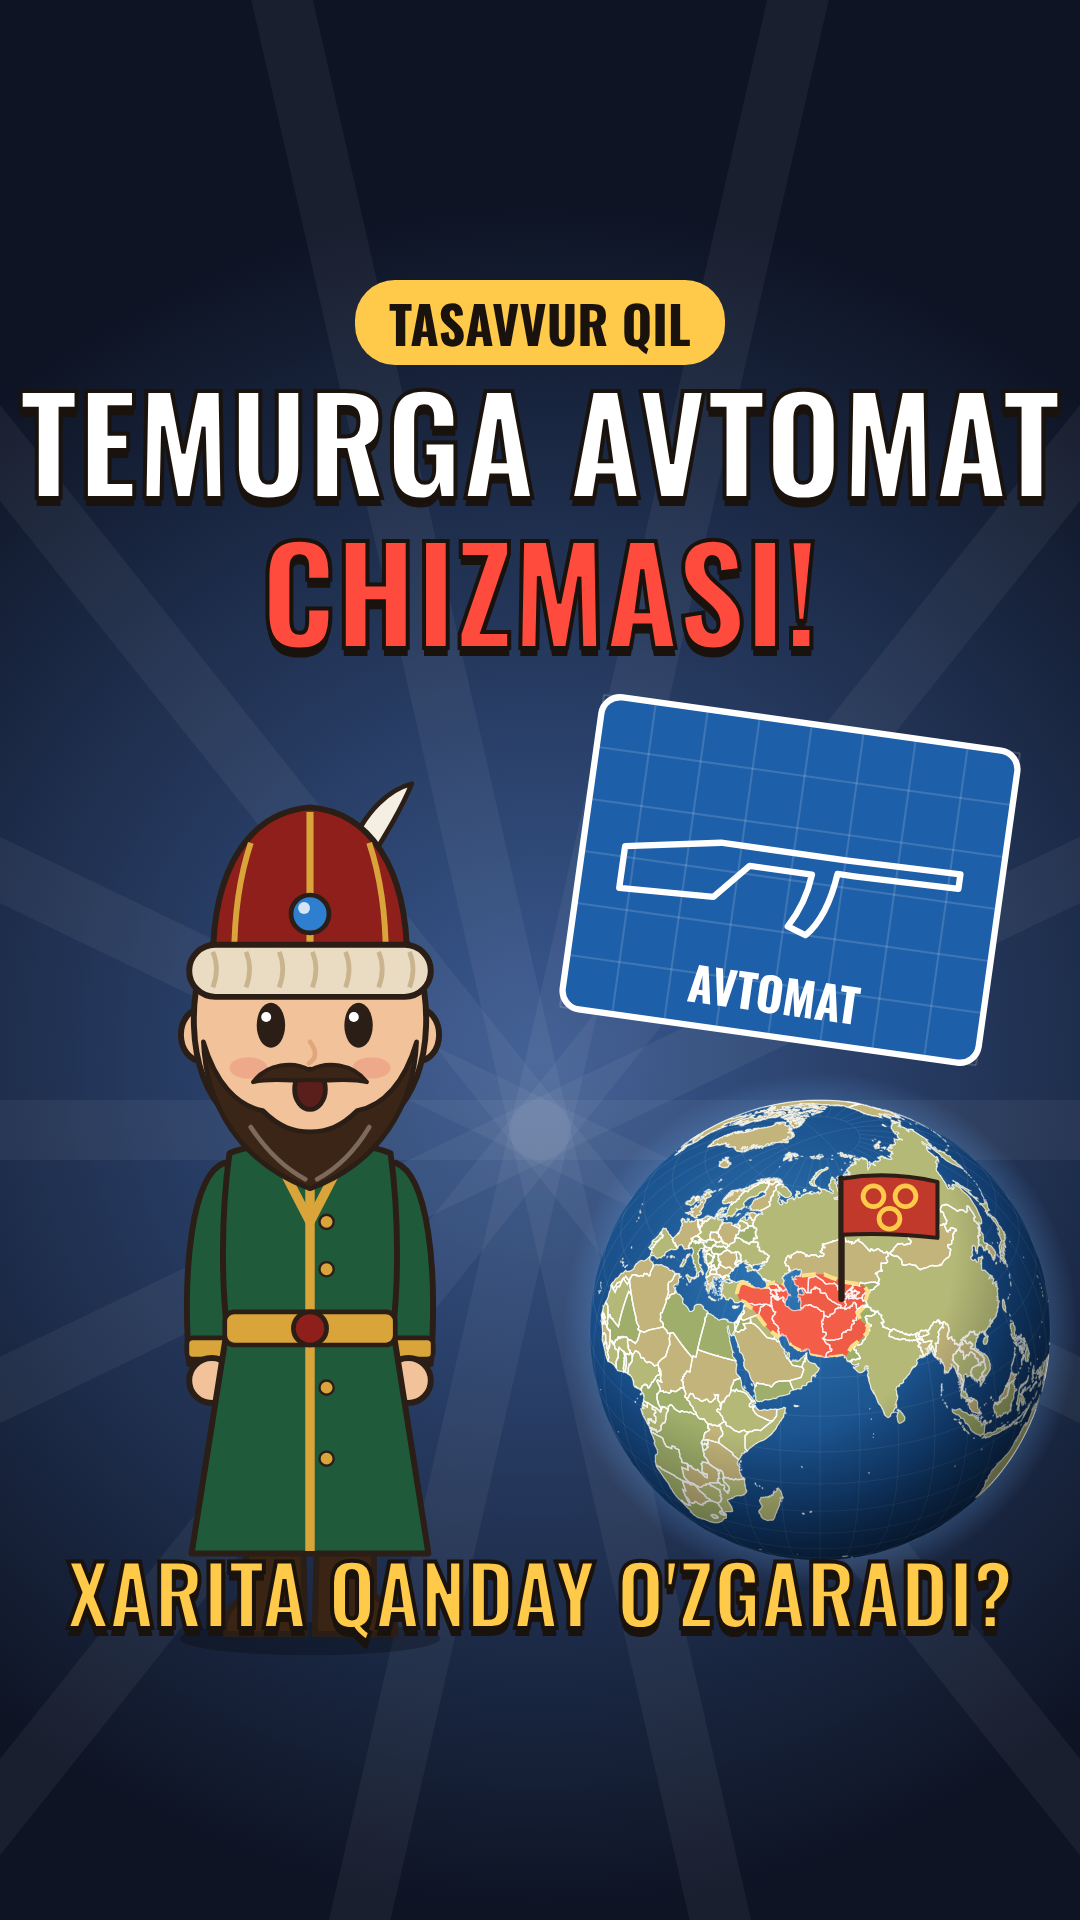
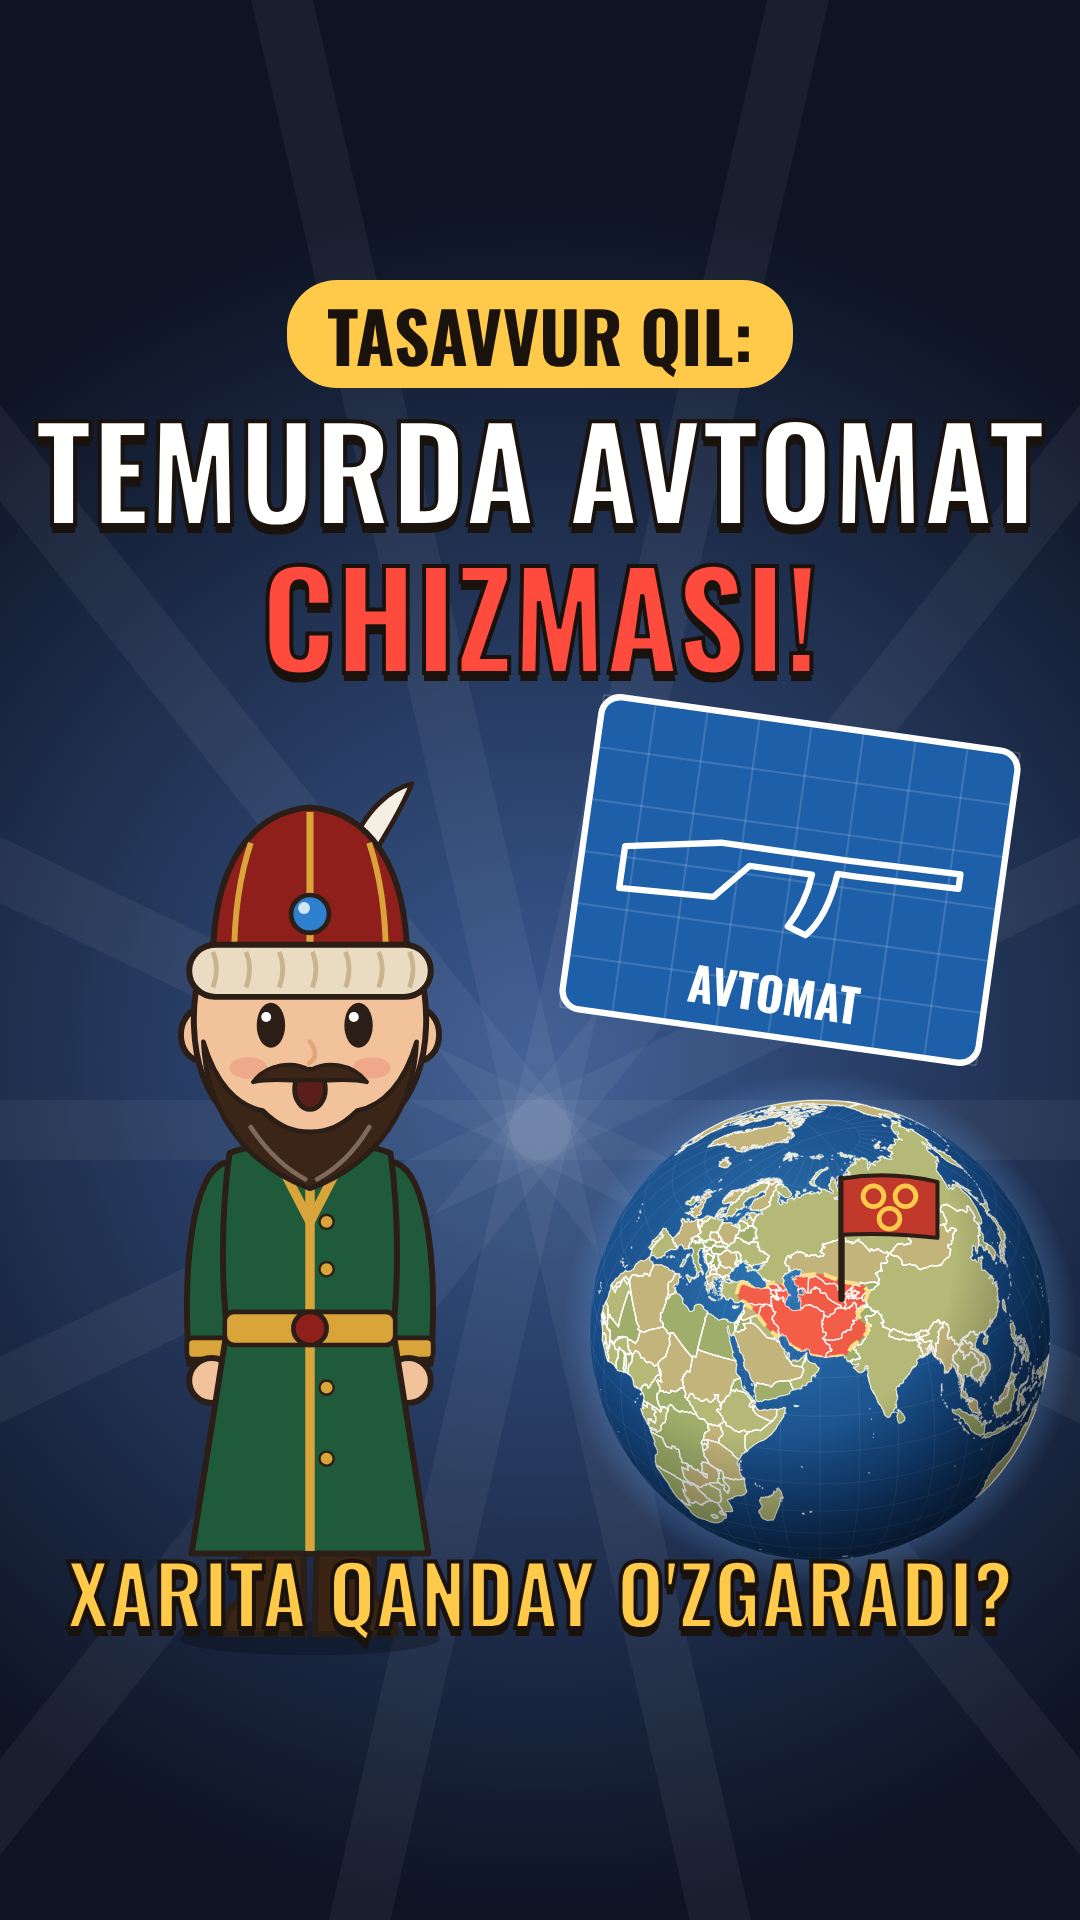
Ep2 cover: 'Tasavvur qil: Temurda avtomat chizmasi'
Claude-Session: https://claude.ai/code/session_01TTDtXDaS4vsPMjHQtkBiDu

Changed region(s): [[0.0, 0.125, 0.9778, 0.375]]

diff --git a/video/src/tasavvur/TQ2Cover.tsx b/video/src/tasavvur/TQ2Cover.tsx
@@ -15,10 +15,10 @@ export const TQ2Cover: React.FC = () => {
         <div key={i} style={{position: 'absolute', left: 540, top: 1100, width: 1400, height: 60, background: 'rgba(255,255,255,0.05)', transformOrigin: '0 50%', transform: `rotate(${i * (360 / 14)}deg)`}} />
       ))}
       <div style={{...T, top: 280, display: 'flex', justifyContent: 'center', WebkitTextStroke: '0', textShadow: 'none'}}>
-        <div style={{background: '#ffc94a', color: '#1a120c', fontSize: 52, padding: '4px 34px', borderRadius: 40}}>TASAVVUR QIL</div>
+        <div style={{background: '#ffc94a', color: '#1a120c', fontSize: 70, padding: '2px 40px', borderRadius: 50}}>TASAVVUR QIL:</div>
       </div>
-      <div style={{...T, top: 370, fontSize: 132, color: '#fff', lineHeight: 1.05}}>TEMURGA AVTOMAT</div>
-      <div style={{...T, top: 520, fontSize: 132, color: '#ff4b3e', lineHeight: 1.05}}>CHIZMASI!</div>
+      <div style={{...T, top: 400, fontSize: 128, color: '#fff', lineHeight: 1.05}}>TEMURDA AVTOMAT</div>
+      <div style={{...T, top: 545, fontSize: 132, color: '#ff4b3e', lineHeight: 1.05}}>CHIZMASI!</div>
       <svg viewBox="0 0 1080 1920" width={1080} height={1920} style={{position: 'absolute', left: 0, top: 0}}>
         <GlobeMap uid="c" rot={[60, 32]} scale={230} cx={820} cy={1330} reveal={1} extra={[]} flag={0.8} samLabel={false} t={0} />
         <g transform="translate(790 880) rotate(8) scale(1.05)">
